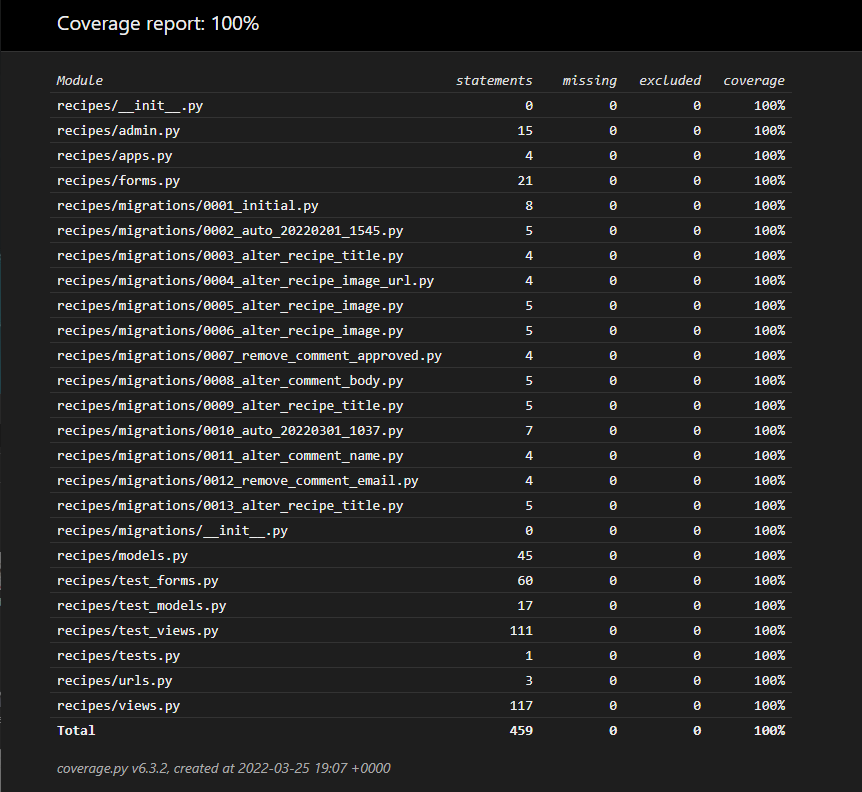
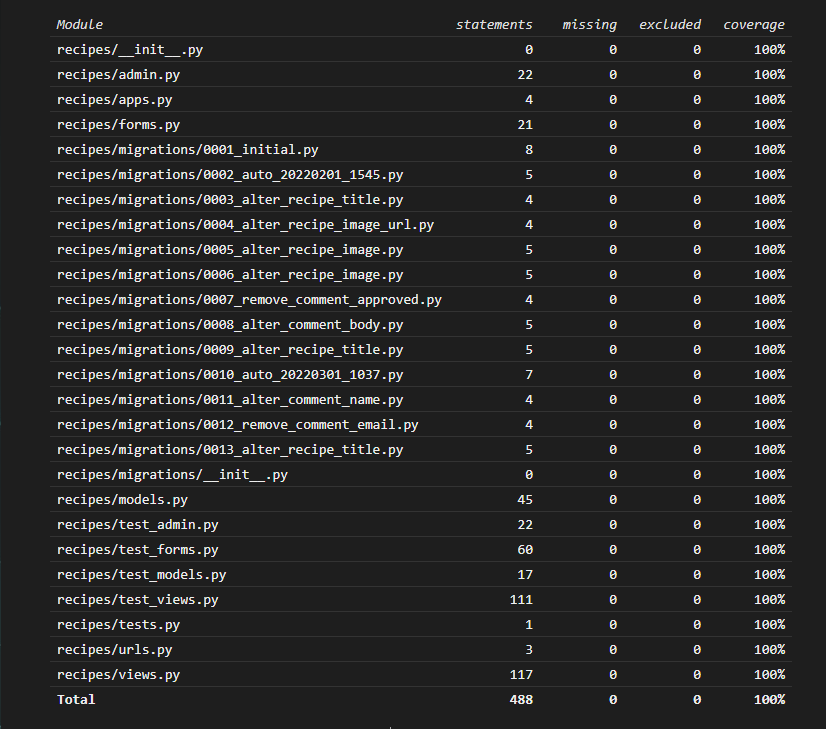
add gif to admin section in testing, updated coverage image

diff --git a/TESTING.md b/TESTING.md
@@ -145,6 +145,9 @@
 
 ![featured](assets/images/featured.gif)
 
+![featured bulk](assets/images/featured-group.gif)
+
+
 ## Unit testing
 
 Unit tests were written for forms, models, and views with the coverage report showing 100%.
